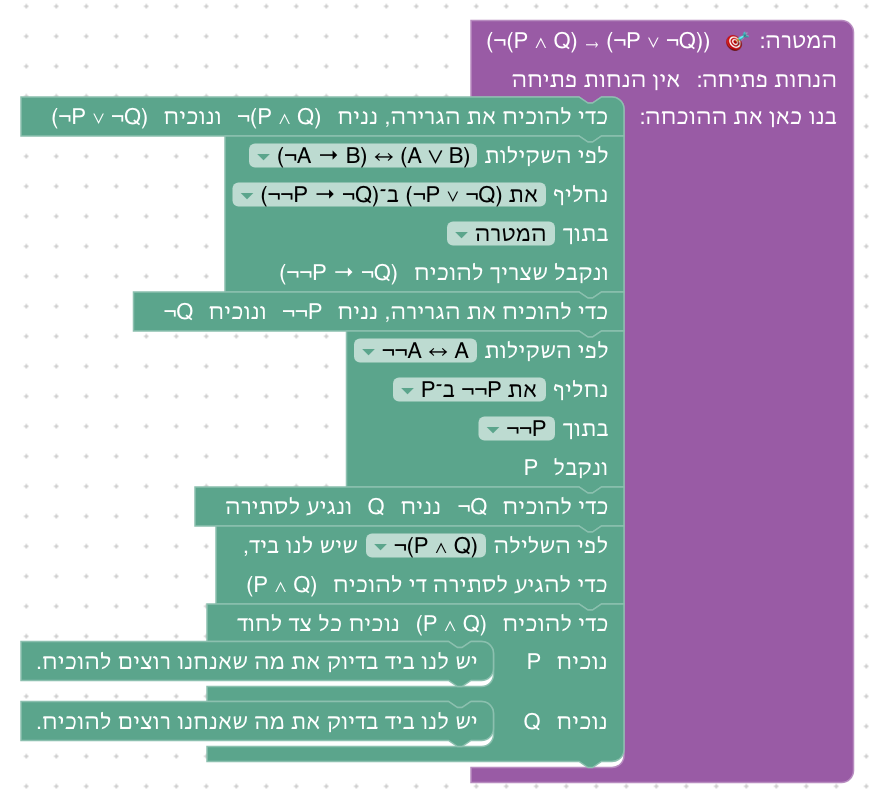
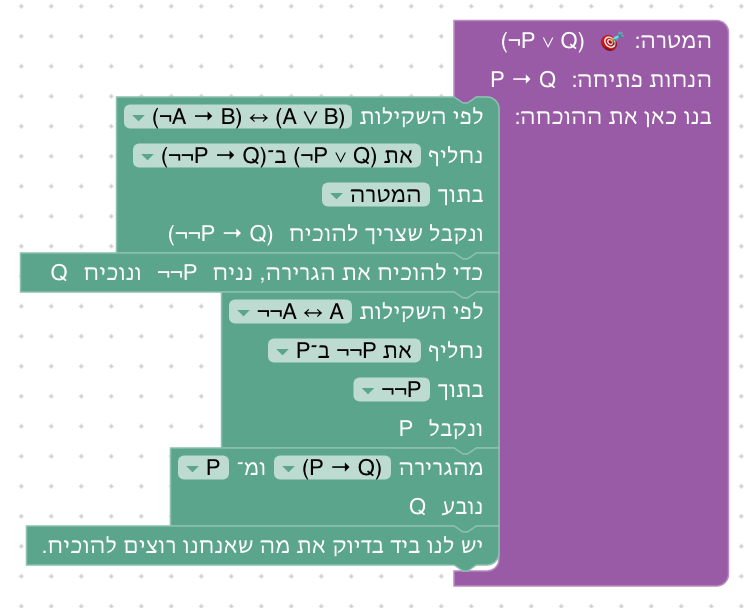
An easy first level for proving 'or' by assuming the negation of a side
Level 6.9 proves P ∨ Q by assuming ¬P and proving Q, with P positive as
in the lecture's example (assume a ≠ 0, prove b = 0), so no double
negation is needed yet. The level with ¬¬P is now 6.10 and the bonus
6.11. Choosing a side of 'or' (unit 3) stays alongside the lecture's way.

diff --git a/frontend/e2e/walk.spec.js b/frontend/e2e/walk.spec.js
@@ -351,6 +351,13 @@ const UNIT6 = [
         await drag(page, 'exact', { after: r2 });
     },
     async (page, log) => {
+        const r = await replace(page, { goal: true }, OR_AS_IMP, 'את (P ∨ Q) ב־(¬P → Q)', 'המטרה', log);
+        const a = await drag(page, 'assume', { after: r }); log(await phrase(page, a));
+        const f1 = await drag(page, 'forward', { after: a }); await choose(page, f1, 'RULE', '(¬P → R)'); await choose(page, f1, 'PREMISE', '¬P'); log(await phrase(page, f1));
+        const f2 = await drag(page, 'forward', { after: f1 }); await choose(page, f2, 'RULE', '(R → Q)'); await choose(page, f2, 'PREMISE', 'R'); log(await phrase(page, f2));
+        await drag(page, 'exact', { after: f2 });
+    },
+    async (page, log) => {
         const r = await replace(page, { goal: true }, OR_AS_IMP, 'את (¬P ∨ Q) ב־(¬¬P → Q)', 'המטרה', log);
         const a = await drag(page, 'assume', { after: r }); log(await phrase(page, a));
         const d = await replace(page, { after: a }, NOT_NOT, 'את ¬¬P ב־P', '¬¬P', log);

diff --git a/frontend/e2e/solutions.js b/frontend/e2e/solutions.js
@@ -164,6 +164,10 @@ export const UNITS = [
             }],
             [{
                 label: 'פתרון',
+                steps: [replace('easylean_or_as_imp', 'BACKWARD'), assume, forward('¬P → R', '¬P'), forward('R → Q', 'R'), close],
+            }],
+            [{
+                label: 'פתרון',
                 steps: [replace('easylean_or_as_imp', 'BACKWARD'), assume, replace('easylean_not_not', 'FORWARD', '¬¬P'), forward('P → Q', 'P'), close],
             }],
             [

diff --git a/docs/curriculum/06-equivalences.md b/docs/curriculum/06-equivalences.md
@@ -2,7 +2,7 @@
 
 <div dir="rtl">
 
-**מטרה:** להשתמש בשקילויות לוגיות כמו בהוכחה כתובה: "לפי חוק דה מורגן, ¬(P ∨ Q) פירושו ¬P ∧ ¬Q". שתי טענות *שקולות* אם יש להן אותו ערך אמת בכל השמה, ואז מותר להחליף אחת בשנייה, במטרה או בטענה שבידינו, וגם בתוך טענה גדולה יותר. את השקילויות של הקשרים הסטודנט כבר בדק בטבלאות אמת ביחידה 1. את השקילויות של הכמתים אי אפשר לבדוק בטבלה: ביחידה 5 הן הוכחו בכיוון אחד, וכאן הוא משלים את הכיוון השני (6.1, 6.2). אחר כך הוא משתמש בשקילויות במהלך חדש אחד, "לפי השקילות ... נחליף ...": מחליף את המטרה בטענה ששקולה לה (6.3), מחליף בטענה שבידינו (6.4), מוכיח גרירה דרך הקונטרה־פוזיציה שלה (6.5), מחליף בתוך טענה ובשרשרת (6.6), מעביר שלילה דרך כמתים (6.7), מנסח דוגמה נגדית (6.8), ומוכיח "או" בטכניקה של ההרצאה: מניח את השלילה של צד אחד ומוכיח את הצד השני (6.9). בשלב הבונוס (6.10) הוא מוכיח באותה טכניקה את מה שבדק בטבלה, דה מורגן ל"וגם".
+**מטרה:** להשתמש בשקילויות לוגיות כמו בהוכחה כתובה: "לפי חוק דה מורגן, ¬(P ∨ Q) פירושו ¬P ∧ ¬Q". שתי טענות *שקולות* אם יש להן אותו ערך אמת בכל השמה, ואז מותר להחליף אחת בשנייה, במטרה או בטענה שבידינו, וגם בתוך טענה גדולה יותר. את השקילויות של הקשרים הסטודנט כבר בדק בטבלאות אמת ביחידה 1. את השקילויות של הכמתים אי אפשר לבדוק בטבלה: ביחידה 5 הן הוכחו בכיוון אחד, וכאן הוא משלים את הכיוון השני (6.1, 6.2). אחר כך הוא משתמש בשקילויות במהלך חדש אחד, "לפי השקילות ... נחליף ...": מחליף את המטרה בטענה ששקולה לה (6.3), מחליף בטענה שבידינו (6.4), מוכיח גרירה דרך הקונטרה־פוזיציה שלה (6.5), מחליף בתוך טענה ובשרשרת (6.6), מעביר שלילה דרך כמתים (6.7), מנסח דוגמה נגדית (6.8), ומוכיח "או" בטכניקה של ההרצאה: מניח את השלילה של צד אחד ומוכיח את הצד השני (6.9), גם כשהצד הזה הוא שלילה (6.10). בשלב הבונוס (6.11) הוא מוכיח באותה טכניקה את מה שבדק בטבלה, דה מורגן ל"וגם".
 
 **המקום של השקילויות בספרי הלימוד.** בספרי הלוגיקה של Copi ושל Hurley השקילויות הן "כללי החלפה" (Rules of Replacement): דה מורגן, קונטרה־פוזיציה (Transposition), גרירה כ"או" (Material Implication), שלילה כפולה ועוד. הם באים מיד אחרי כללי ההסקה, וההבדל ביניהם מודגש: כלל הסקה פועל רק על טענה שלמה, ואילו החלפה לפי שקילות מותרת גם בתוך חלק של טענה. ספרי הדדוקציה הטבעית (forall x, Huth & Ryan, Logic and Proof) מוכיחים את השקילויות כתרגילים, ואחר כך משתמשים בהן ככללים נגזרים. ספרי המבוא להוכחות ולמתמטיקה בדידה (Rosen §1.3, Epp, How to Prove It של Velleman) מלמדים שקילויות מוקדם, ומשתמשים בהן כדי לשנות את המטרה: כדי להוכיח P ∨ Q מניחים ¬P ומוכיחים Q, וכשהמטרה היא שלילה מעבירים את השלילה פנימה, גם דרך כמתים. Gries ו־Schneider בונים את הלוגיקה כולה כחשבון של שקילויות. היחידה הזאת הולכת בדרך של ההרצאה, ושל Copi ו־Hurley: השקילויות של הקשרים מוצדקות בטבלאות אמת (יחידה 1), ורק אז הן כללי החלפה. השקילויות של הכמתים, שאין להן טבלה, מוכחות בשני הכיוונים במהלכים, כמו בספרי הדדוקציה הטבעית.
 
@@ -24,15 +24,15 @@
 |---|---|---|---|
 | `¬(A ∨ B) ↔ (¬A ∧ ¬B)` | דה מורגן ל"או" | טבלת אמת, 1.6 | 6.4, 6.6 |
 | `(A → B) ↔ (¬B → ¬A)` | קונטרה־פוזיציה | טבלת אמת, 1.4 | 6.5 |
-| `(A → B) ↔ (¬A ∨ B)` | גרירה כ"או" | טבלת אמת, 1.4 | 6.3, 6.10 |
-| `(¬A → B) ↔ (A ∨ B)` | "או" כגרירה | טבלת אמת, 1.3 | 6.9, 6.10 |
-| `¬¬A ↔ A` | שלילה כפולה | טבלת אמת, 1.5 | 6.6, 6.9, 6.10 |
+| `(A → B) ↔ (¬A ∨ B)` | גרירה כ"או" | טבלת אמת, 1.4 | 6.3, 6.11 |
+| `(¬A → B) ↔ (A ∨ B)` | "או" כגרירה | טבלת אמת, 1.3 | 6.9, 6.10, 6.11 |
+| `¬¬A ↔ A` | שלילה כפולה | טבלת אמת, 1.5 | 6.6, 6.10, 6.11 |
 | `¬(A → B) ↔ (A ∧ ¬B)` | שלילה של גרירה | טבלת אמת, 1.5 | 6.8 |
 | `¬∃x (P(x)) ↔ ∀x (¬P(x))` | שלילה של "קיים" | 5.8 (→), 6.1 (←) | 6.7 |
 | `¬∀x (P(x)) ↔ ∃x (¬P(x))` | שלילה של "לכל" | 5.10 (→), 6.2 (←) | 6.7, 6.8 |
 | `¬(A ∧ B) ↔ (¬A ∨ ¬B)` | — | טבלת אמת, 1.5 | אף שלב |
 
-כל שקילות מוצגת ככרטיס בשלב שבו היא מופיעה לראשונה בתפריט (גרירה כ"או" מוצגת שוב בשלב 6.10, ושלילה של "לכל" בשלב 6.8), והכרטיס אומר איפה היא הוכחה. בשקילויות כתובות האותיות A ו־B, ובטבלאות α ו־β; טקסט הפתיחה של היחידה אומר שאלה אותן אותיות סכמטיות: כל טענה.
+כל שקילות מוצגת ככרטיס בשלב שבו היא מופיעה לראשונה בתפריט (גרירה כ"או" מוצגת שוב בשלב 6.11, ושלילה של "לכל" בשלב 6.8), והכרטיס אומר איפה היא הוכחה. בשקילויות כתובות האותיות A ו־B, ובטבלאות α ו־β; טקסט הפתיחה של היחידה אומר שאלה אותן אותיות סכמטיות: כל טענה.
 
 **מהלכים מיחידות קודמות** שבארגז של שלבים ביחידה הזאת:
 
@@ -77,7 +77,7 @@
 
 לכל שלב: מה לומדים בו, למה הוא בנוי כך, איך אנחנו רוצים שסטודנטים יפתרו אותו, ושיקולים ושאלות שעוד צריך להכריע. צילומי הפתרונות נוצרים מ־`frontend/e2e/solutions.js` (ראו [יחידה 2](02-implications.md#שלבים)). בכל שלב בארגז רק המהלכים של הפתרונות שלו, ובתפריט של מהלך ההחלפה רק השקילויות שלהם.
 
-**סדר היחידה.** קודם משלימים את השקילויות של הכמתים (6.1–6.2), במהלכים מוכרים. אחר כך המהלך החדש: במטרה (6.3), בטענה שבידינו (6.4), כשיטת הוכחה עם שתי דרכים (6.5), בתוך טענה ובשרשרת (6.6), ובתוך כמת (6.7), ושתי ההחלפות יחד, דרך "לכל" ודרך גרירה, כדי לנסח דוגמה נגדית (6.8). אחר כך הוכחת "או" כמו בהרצאה (6.9), והבונוס (6.10) מוכיח באותה טכניקה את מה שנבדק בטבלה.
+**סדר היחידה.** קודם משלימים את השקילויות של הכמתים (6.1–6.2), במהלכים מוכרים. אחר כך המהלך החדש: במטרה (6.3), בטענה שבידינו (6.4), כשיטת הוכחה עם שתי דרכים (6.5), בתוך טענה ובשרשרת (6.6), ובתוך כמת (6.7), ושתי ההחלפות יחד, דרך "לכל" ודרך גרירה, כדי לנסח דוגמה נגדית (6.8). אחר כך הוכחת "או" כמו בהרצאה (6.9, ובצד שהוא שלילה 6.10), והבונוס (6.11) מוכיח באותה טכניקה את מה שנבדק בטבלה.
 
 ### שלב 6.1: משלימים את השלילה של "קיים"
 
@@ -211,35 +211,46 @@
 
 ### שלב 6.9: הוכחת "או": נניח את השלילה של צד אחד
 
-`P → Q ⊢ ¬P ∨ Q` · בארגז: החלפה לפי שקילות, נניח, הסקה קדימה, זה בדיוק · בתפריט: `(¬A → B) ↔ (A ∨ B)`, `¬¬A ↔ A`
+`¬P → R, R → Q ⊢ P ∨ Q` · בארגז: החלפה לפי שקילות, נניח, הסקה קדימה, זה בדיוק · בתפריט: `(¬A → B) ↔ (A ∨ B)`
 
 **מה לומדים.** את הטכניקה של ההרצאה להוכחת "או": כדי להוכיח α ∨ β, נניח ¬α ונוכיח β. היא נובעת מהשקילות ¬α → β ≡ α ∨ β, שנבדקה בטבלה בשלב 1.3 (המטריה).
 
-**למה כך.** בטבלה של ההרצאה ("המילה הראשית קובעת את מבנה ההוכחה") השורה של α ∨ β היא "נניח ¬α", "נשאר להוכיח β". השלב עושה בדיוק את זה: מחליפים את המטרה ¬P ∨ Q ב־¬¬P → Q, ומניחים ¬¬P. כאן α היא ¬P, ולכן מה שמניחים הוא שלילה כפולה, ולפי ¬¬A ↔ A מקבלים P; זו גם הסיבה שהשלילה הכפולה בתפריט. הטענה עצמה, ¬P ∨ Q מתוך P → Q, היא הכיוון → של גרירה כ"או" (שלב 1.4), אבל השקילות הזאת לא בתפריט, כדי שהשלב לא ייפתר בהחלפה אחת. בארגז אין הוכחת "או", ולכן אי אפשר לבחור צד.
+**למה כך.** בטבלה של ההרצאה ("המילה הראשית קובעת את מבנה ההוכחה") השורה של α ∨ β היא "נניח ¬α", "נשאר להוכיח β", והדוגמה היא "אם ab = 0 אז a = 0 או b = 0": נניח a ≠ 0 ונוכיח b = 0. כמו שם, הצד שמניחים את השלילה שלו, P, הוא טענה חיובית, ולכן אין צורך בשלילה כפולה (היא בשלב 6.10). אחרי ההנחה, Q נובעת בשתי הסקות קדימה, כך שהרעיון החדש היחיד הוא ההחלפה של המטרה. השקילות מוצגת ככרטיס בפעם הראשונה.
 
-**פתרון.** "לפי השקילות (¬A → B) ↔ (A ∨ B) נחליף את (¬P ∨ Q) ב־(¬¬P → Q) בתוך המטרה", "כדי להוכיח את הגרירה, נניח ¬¬P ונוכיח Q", "לפי השקילות ¬¬A ↔ A נחליף את ¬¬P ב־P בתוך ¬¬P" (עכשיו P בידינו), "מהגרירה P → Q ומ־P נובע Q", ו"יש לנו ביד בדיוק את מה שאנחנו רוצים להוכיח."
+**פתרון.** "לפי השקילות (¬A → B) ↔ (A ∨ B) נחליף את (P ∨ Q) ב־(¬P → Q) בתוך המטרה", "כדי להוכיח את הגרירה, נניח ¬P ונוכיח Q", "מהגרירה ¬P → R ומ־¬P נובע R", "מהגרירה R → Q ומ־R נובע Q", ו"יש לנו ביד בדיוק את מה שאנחנו רוצים להוכיח."
 
 ![שלב 6.9](images/unit6-level9-a.png)
 
-**שיקולים ושאלות להכרעה.**
-- בהרצאה הטכניקה מוצגת על טענה שבה α חיובית ("נניח a ≠ 0"). כאן α היא ¬P, ולכן צריך גם שלילה כפולה. האם להוסיף לפני כן שלב קצר שבו α חיובית, למשל `¬Q → P ⊢ P ∨ Q` (אחרי ההחלפה, ¬P → Q, ואז הוכחה בשלילה)?
-- מהלך "הוכחת 'או'" (בחירת צד, יחידה 3) עדיין קיים. ההרצאה מציגה רק את הדרך של "נניח ¬α". להשאיר את שתיהן?
+### שלב 6.10: הוכחת "או", כשהצד הוא שלילה
 
-### שלב 6.10: שלב בונוס: דה מורגן ל"וגם"
+`P → Q ⊢ ¬P ∨ Q` · בארגז: החלפה לפי שקילות, נניח, הסקה קדימה, זה בדיוק · בתפריט: `(¬A → B) ↔ (A ∨ B)`, `¬¬A ↔ A`
+
+**מה לומדים.** את אותה טכניקה, כשהצד שמניחים את השלילה שלו הוא בעצמו שלילה: כדי להוכיח ¬P ∨ Q מניחים ¬¬P, ולפי השלילה הכפולה מקבלים P.
+
+**למה כך.** אחרי שלב 6.9, שבו הצד חיובי, זה הצעד הבא: ¬P ∨ Q מוחלפת ב־¬¬P → Q. הטענה עצמה, ¬P ∨ Q מתוך P → Q, היא הכיוון → של גרירה כ"או" (שלב 1.4), אבל השקילות הזאת לא בתפריט, כדי שהשלב לא ייפתר בהחלפה אחת. בארגז אין הוכחת "או", ולכן אי אפשר לבחור צד. השלב מכין את הבונוס, שבו שני הצדדים הם שלילות.
+
+**פתרון.** "לפי השקילות (¬A → B) ↔ (A ∨ B) נחליף את (¬P ∨ Q) ב־(¬¬P → Q) בתוך המטרה", "כדי להוכיח את הגרירה, נניח ¬¬P ונוכיח Q", "לפי השקילות ¬¬A ↔ A נחליף את ¬¬P ב־P בתוך ¬¬P" (עכשיו P בידינו), "מהגרירה P → Q ומ־P נובע Q", ו"יש לנו ביד בדיוק את מה שאנחנו רוצים להוכיח."
+
+![שלב 6.10](images/unit6-level10-a.png)
+
+**שיקולים ושאלות להכרעה.**
+- **הוחלט (עם מחבר הקורס):** להשאיר גם את המהלך "הוכחת 'או'" שבוחר צד (יחידה 3), וגם את הדרך של ההרצאה. בשלבים 6.9–6.11 אין בארגז בחירת צד, כדי שהדרך של ההרצאה תהיה הדרך היחידה.
+
+### שלב 6.11: שלב בונוס: דה מורגן ל"וגם"
 
 `⊢ ¬(P ∧ Q) → (¬P ∨ ¬Q)` · בארגז: נניח, החלפה לפי שקילות, הוכחת שלילה, שימוש בשלילה, הוכחת "וגם", זה בדיוק · בתפריט: `(¬A → B) ↔ (A ∨ B)`, `¬¬A ↔ A`, `(A → B) ↔ (¬A ∨ B)`
 
-**מה לומדים.** שטבלה היא רק אחת הדרכים להוכיח שקילות: את הכיוון → של דה מורגן ל"וגם", שנבדק בטבלה בשלב 1.5, מוכיחים כאן במהלכים, בטכניקה של שלב 6.9.
+**מה לומדים.** שטבלה היא רק אחת הדרכים להוכיח שקילות: את הכיוון → של דה מורגן ל"וגם", שנבדק בטבלה בשלב 1.5, מוכיחים כאן במהלכים, בטכניקה של שלבים 6.9 ו־6.10.
 
-**למה כך.** אחרי הנחת התנאי המטרה היא "או", ¬P ∨ ¬Q, ולא ידוע איזה צד נכון; ביחידה 4 זה דרש הוכחה בשלילה (כמו בשלב 4.10). כמו בשלב 6.9, לפי (¬A → B) ↔ (A ∨ B) מחליפים אותה ב־¬¬P → ¬Q, מניחים ¬¬P, ומקבלים P לפי השלילה הכפולה. טקסט הפתיחה מציע גם דרך קצרה יותר: לפי (A → B) ↔ (¬A ∨ B), בכיוון ההפוך, המטרה הופכת ל־P → ¬Q, בלי שלילה כפולה. זו הפעם הראשונה שבה ההחלפה במטרה לפי גרירה כ"או" היא בכיוון ההפוך (בשלב 6.5 הכיוון ההפוך היה רק בדרך השנייה, בהנחה). בשתי הדרכים ההמשך זהה: מוכיחים ¬Q בהנחת Q, ומגיעים לסתירה לפי ¬(P ∧ Q).
+**למה כך.** אחרי הנחת התנאי המטרה היא "או", ¬P ∨ ¬Q, ולא ידוע איזה צד נכון; ביחידה 4 זה דרש הוכחה בשלילה (כמו בשלב 4.10). כמו בשלב 6.10, לפי (¬A → B) ↔ (A ∨ B) מחליפים אותה ב־¬¬P → ¬Q, מניחים ¬¬P, ומקבלים P לפי השלילה הכפולה. טקסט הפתיחה מציע גם דרך קצרה יותר: לפי (A → B) ↔ (¬A ∨ B), בכיוון ההפוך, המטרה הופכת ל־P → ¬Q, בלי שלילה כפולה. זו הפעם הראשונה שבה ההחלפה במטרה לפי גרירה כ"או" היא בכיוון ההפוך (בשלב 6.5 הכיוון ההפוך היה רק בדרך השנייה, בהנחה). בשתי הדרכים ההמשך זהה: מוכיחים ¬Q בהנחת Q, ומגיעים לסתירה לפי ¬(P ∧ Q).
 
 **פתרון א: כמו בהרצאה.** "כדי להוכיח את הגרירה, נניח ¬(P ∧ Q) ונוכיח (¬P ∨ ¬Q)", "לפי השקילות (¬A → B) ↔ (A ∨ B) נחליף את (¬P ∨ ¬Q) ב־(¬¬P → ¬Q) בתוך המטרה", "כדי להוכיח את הגרירה, נניח ¬¬P ונוכיח ¬Q", "לפי השקילות ¬¬A ↔ A נחליף את ¬¬P ב־P בתוך ¬¬P", "כדי להוכיח ¬Q נניח Q ונגיע לסתירה", "לפי השלילה ¬(P ∧ Q) שיש לנו ביד, כדי להגיע לסתירה די להוכיח (P ∧ Q)", "כדי להוכיח (P ∧ Q) נוכיח כל צד לחוד": בחלק "נוכיח P" ובחלק "נוכיח Q", "יש לנו ביד...".
 
-![שלב 6.10, כמו בהרצאה](images/unit6-level10-a.png)
+![שלב 6.11, כמו בהרצאה](images/unit6-level11-a.png)
 
 **פתרון ב: גרירה כ"או".** "כדי להוכיח את הגרירה, נניח ¬(P ∧ Q) ונוכיח (¬P ∨ ¬Q)", "לפי השקילות (A → B) ↔ (¬A ∨ B) נחליף את (¬A ∨ B) ב־(A → B) בתוך המטרה" (עכשיו המטרה P → ¬Q), "כדי להוכיח את הגרירה, נניח P ונוכיח ¬Q", ומשם כמו בפתרון א.
 
-![שלב 6.10, גרירה כ"או"](images/unit6-level10-b.png)
+![שלב 6.11, גרירה כ"או"](images/unit6-level11-b.png)
 
 **שיקולים ושאלות להכרעה.**
 
@@ -254,7 +265,7 @@
 
 - **כללי החלפה (Copi, Hurley).** בספרי הלוגיקה הקלאסיים לסטודנטים, אחרי כללי ההסקה (תשעה אצל Copi, שמונה אצל Hurley) באים עשרה כללי החלפה: דה מורגן, קומוטטיביות, אסוציאטיביות, פילוג, שלילה כפולה, קונטרה־פוזיציה (Transposition), גרירה כ"או" (Material Implication), Material Equivalence, Exportation ו־Tautology. כלל החלפה מותר גם בתוך חלק של שורה, וכלל הסקה רק על שורה שלמה, ושני הספרים מדגישים את ההבדל. השקילויות לא מוכחות שם בכללי ההסקה: הן מוצדקות בטבלאות אמת, וכך גם כאן, ביחידה 1.
 - **כללים נגזרים (forall x, Huth & Ryan, Logic and Proof).** בספרי הדדוקציה הטבעית השקילויות הן תרגילים: מוכיחים את דה מורגן, את הקונטרה־פוזיציה ואת השלילה של כמתים בכללים הבסיסיים, ואחר כך מוסיפים אותם ככללים נגזרים (forall x: DeM, CQ). Huth & Ryan מגדירים שקילות כגזירה בשני הכיוונים (⊣⊢). כך בנויות כאן השקילויות של הכמתים: הן נכנסות לתפריט רק אחרי ששני הכיוונים הוכחו.
-- **ספרי מבוא להוכחות ולמתמטיקה בדידה (Rosen §1.3–1.5, Epp פרקים 2–3, Velleman, How to Prove It).** טבלה של שקילויות מוצגת מוקדם, ומשמשת להוכחת שקילויות חדשות בשרשרת (שלב 6.6) ולשלילה של טענות עם כמתים (שלבים 6.7 ו־6.8). Velleman משתמש בהן כדי לשנות את המטרה: כדי להוכיח P ∨ Q מניחים ¬P ומוכיחים Q (הדרך של שלבים 6.9 ו־6.10), וכשהמטרה היא שלילה, "מנסחים אותה מחדש" בלי שלילה מבחוץ, לפי השקילויות של שלילת כמתים. הוכחה בקונטרה־פוזיציה היא שיטת הוכחה בפני עצמה (שלב 6.5).
+- **ספרי מבוא להוכחות ולמתמטיקה בדידה (Rosen §1.3–1.5, Epp פרקים 2–3, Velleman, How to Prove It).** טבלה של שקילויות מוצגת מוקדם, ומשמשת להוכחת שקילויות חדשות בשרשרת (שלב 6.6) ולשלילה של טענות עם כמתים (שלבים 6.7 ו־6.8). Velleman משתמש בהן כדי לשנות את המטרה: כדי להוכיח P ∨ Q מניחים ¬P ומוכיחים Q (הדרך של שלבים 6.9–6.11), וכשהמטרה היא שלילה, "מנסחים אותה מחדש" בלי שלילה מבחוץ, לפי השקילויות של שלילת כמתים. הוכחה בקונטרה־פוזיציה היא שיטת הוכחה בפני עצמה (שלב 6.5).
 - **חשבון של שקילויות (Gries ו־Schneider, A Logical Approach to Discrete Math).** הלוגיקה כולה בנויה כחשבון של שקילויות: כל הוכחה היא שרשרת של החלפות "שקול בשקול", לפי כלל לייבניץ, כמו בחישוב אלגברי. שלב 6.6 הוא טעימה מהסגנון הזה, וההחלפה לפי שוויון ביחידה 9 היא אותו כלל.
 - **ב־Lean ובכלים אחרים.** ב־Lean מחליפים לפי שקילות ב־`rw` וב־`simp`, ו־`push_neg` של Mathlib מעביר שלילה פנימה בצעד אחד. כאן, כמו ביחידה 4, אין `push_neg`: כל מעבר של שלילה הוא צעד שהסטודנט בוחר, לפי שקילות שהוא הוכיח. D∃∀duction מנסח כל הגדרה כשקילות, וכך מאפשר להחליף לפיה (ראו שאלה (א)).
 - **מקורות:**

diff --git a/docs/curriculum/01-truth-tables.md b/docs/curriculum/01-truth-tables.md
@@ -52,7 +52,7 @@
 
 **מה לומדים.** לבדוק שקילות בטבלה, וההבדל בין ↔ (פסוק) לבין ≡ (טענה שלנו, במטא־שפה).
 
-**למה כך.** הדיאלוג מההרצאה, בשלוש שורות. השקילות ¬α → β ≡ α ∨ β היא טכניקת הוכחה: כדי להוכיח "או", נניח את השלילה של צד אחד ונוכיח את הצד השני. טקסט הסיום מנסח אותה כך, וביחידה 6 היא בתפריט של מהלך ההחלפה, כ־(¬A → B) ↔ (A ∨ B), ומשמשת בשלבים 6.9 ו־6.10 בדיוק כך.
+**למה כך.** הדיאלוג מההרצאה, בשלוש שורות. השקילות ¬α → β ≡ α ∨ β היא טכניקת הוכחה: כדי להוכיח "או", נניח את השלילה של צד אחד ונוכיח את הצד השני. טקסט הסיום מנסח אותה כך, וביחידה 6 היא בתפריט של מהלך ההחלפה, כ־(¬A → B) ↔ (A ∨ B), ומשמשת בשלבים 6.9–6.11 בדיוק כך.
 
 ![שלב 1.3](images/unit1-level3-a.png)
 
